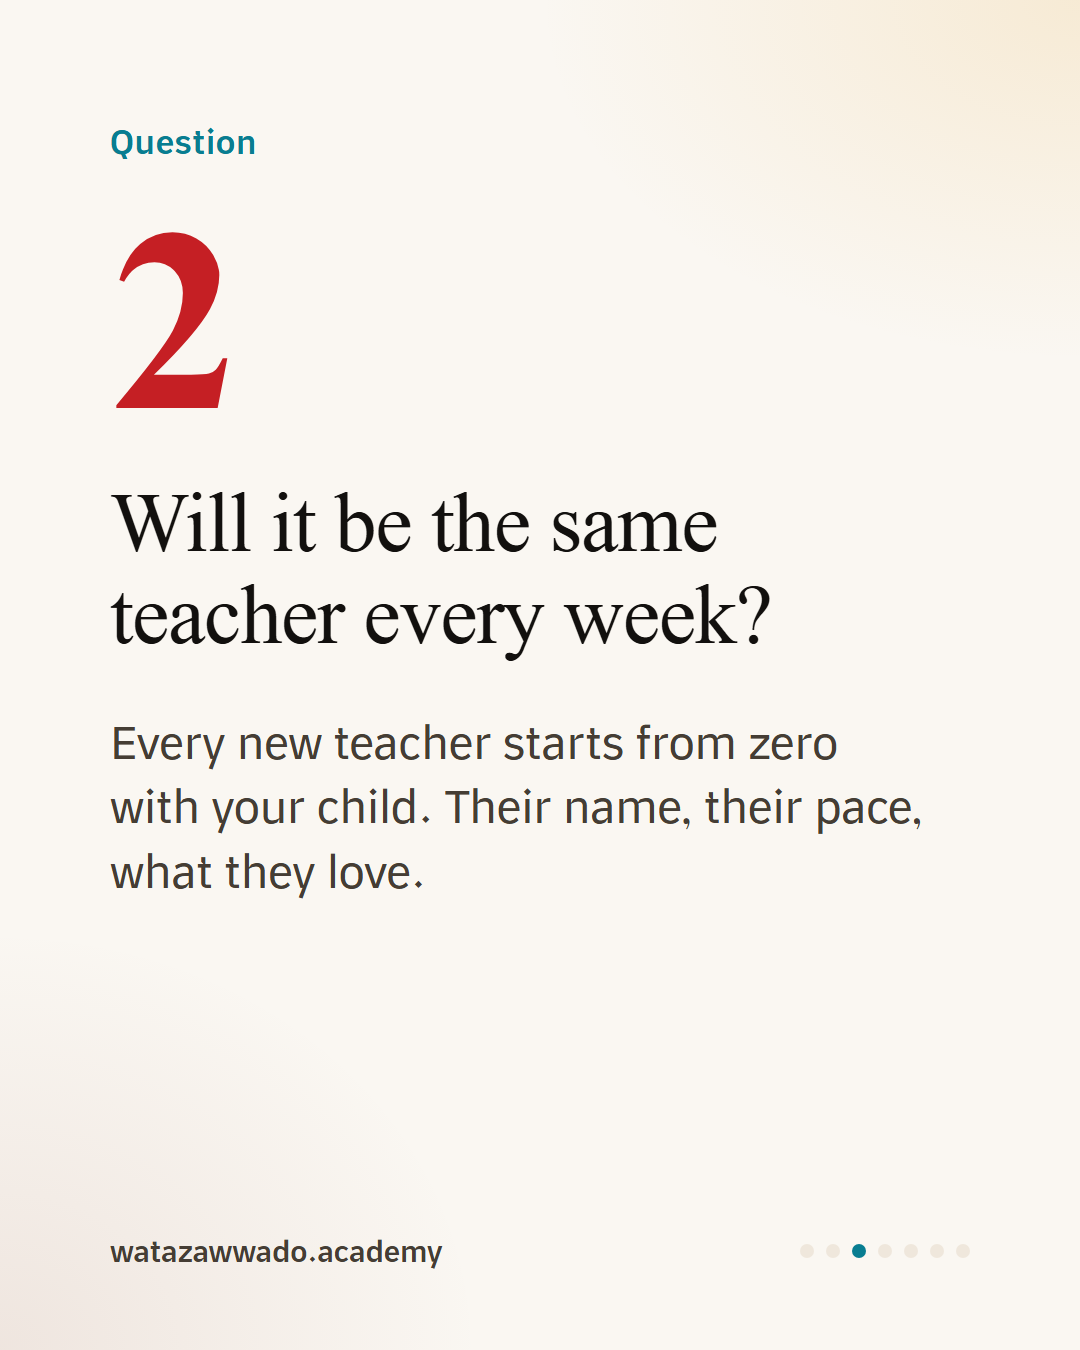
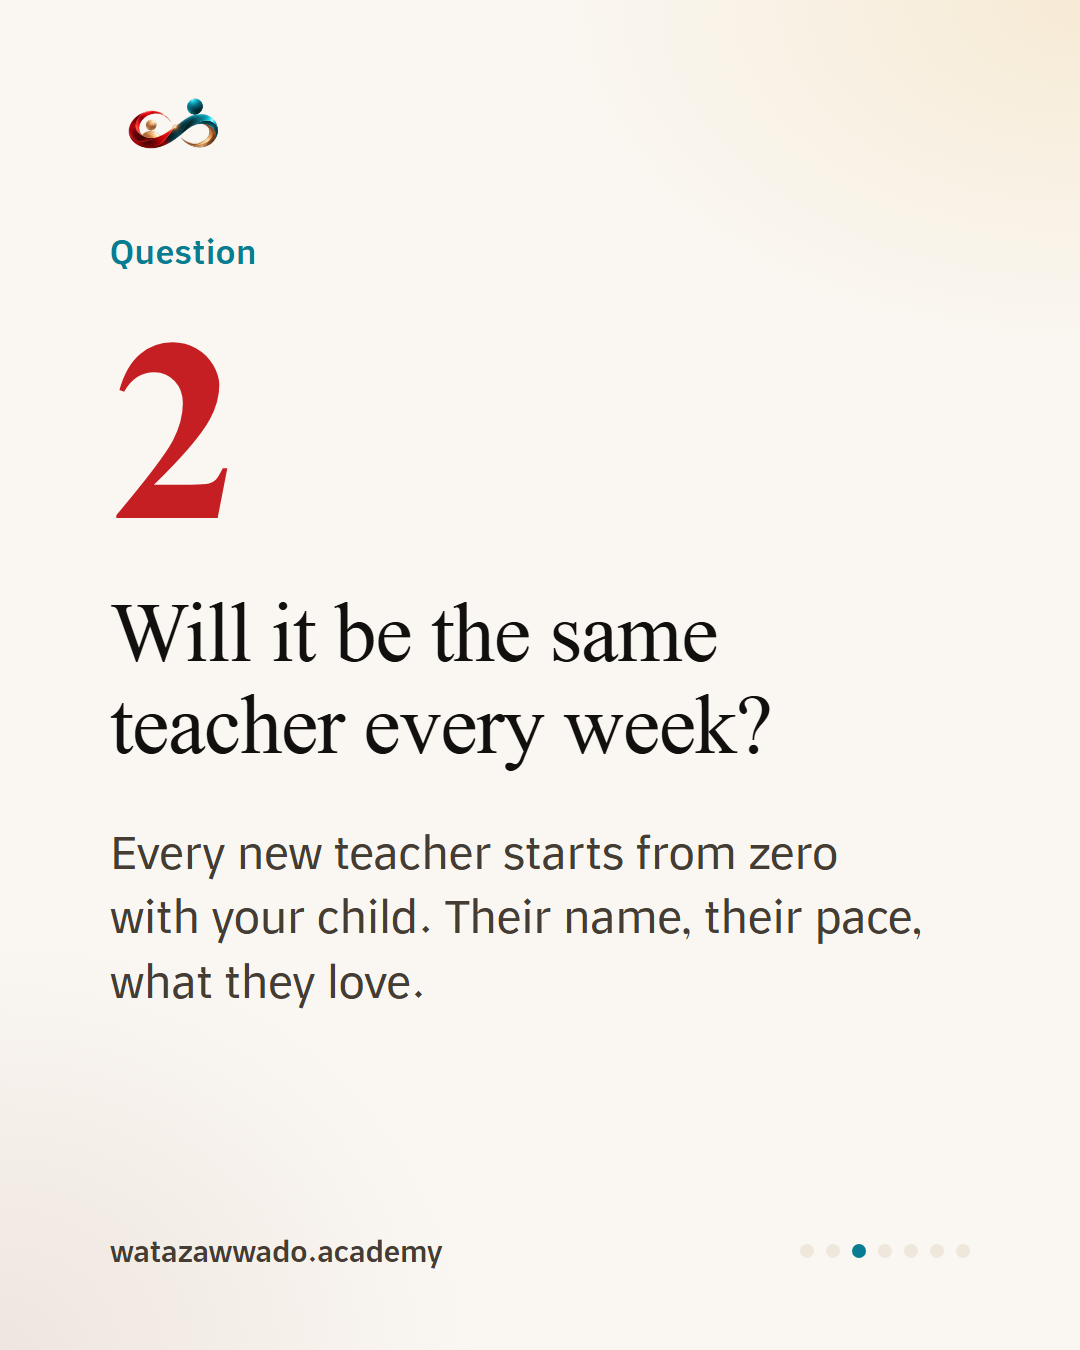
content(V1): brand mark top-left on every slide

Changed region(s): [[0.0917, 0.4356, 0.8556, 0.7467], [0.0917, 0.1556, 0.6722, 0.4044], [0.0917, 0.0622, 0.2444, 0.1244]]

diff --git a/marketing/posts/2026-11-16-V1/slides.html b/marketing/posts/2026-11-16-V1/slides.html
@@ -13,7 +13,10 @@
   * { box-sizing: border-box; margin: 0; }
   body { background: #333; font-family: Sans, sans-serif; }
   .slide { width: 1080px; height: 1350px; position: relative; overflow: hidden; background: var(--paper); color: var(--ink);
-           padding: 120px 110px 230px; display: flex; flex-direction: column; margin-bottom: 40px; }
+           padding: 230px 110px 230px; display: flex; flex-direction: column; margin-bottom: 40px; }
+  /* Same small brand mark, top-left, on every slide. */
+  .slide::after { content: ""; position: absolute; left: 104px; top: 92px; width: 200px; height: 84px;
+           background: url(../../../public/logo-256.png) left center / contain no-repeat; }
   .slide::before { content: ""; position: absolute; inset: 0; pointer-events: none;
            background: radial-gradient(900px 600px at 100% 0%, rgba(229,169,60,.16), transparent 60%),
                        radial-gradient(800px 700px at 0% 100%, rgba(139,73,53,.10), transparent 60%); }
@@ -29,7 +32,7 @@
   .dots { display: flex; gap: 12px; }
   .dots i { width: 14px; height: 14px; border-radius: 50%; background: var(--warm); display: block; }
   .dots i.on { background: var(--teal); }
-  .star { position: absolute; right: 90px; top: 90px; width: 120px; opacity: .9; }
+  .star { position: absolute; right: 104px; top: 74px; width: 104px; opacity: .9; }
   .deep { background: linear-gradient(160deg, #1B1816 0%, #2E2824 55%, #3B2219 100%); color: var(--paper); }
   .deep::before { background: radial-gradient(800px 600px at 80% 10%, rgba(229,169,60,.22), transparent 60%); }
   .deep h1 { color: var(--paper); }
@@ -50,7 +53,7 @@
   <div class="kicker">For parents</div>
   <h1>Before you book a Quran teacher for your child, ask these <span style="color:var(--crimson)">5 questions.</span></h1>
   <div class="save">Save this for when you choose →</div>
-  <div class="foot"><img src="../../../public/logo-256.png" alt=""><div class="dots"><i class="on"></i><i></i><i></i><i></i><i></i><i></i><i></i></div></div>
+  <div class="foot"><span>watazawwado.academy</span><div class="dots"><i class="on"></i><i></i><i></i><i></i><i></i><i></i><i></i></div></div>
 </section>
 
 <section class="slide" id="s2">
